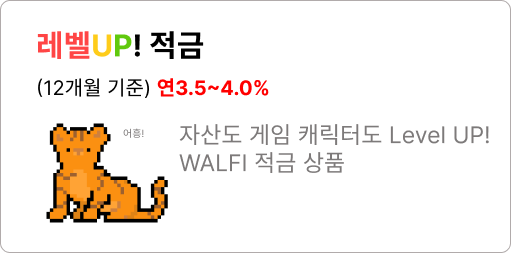
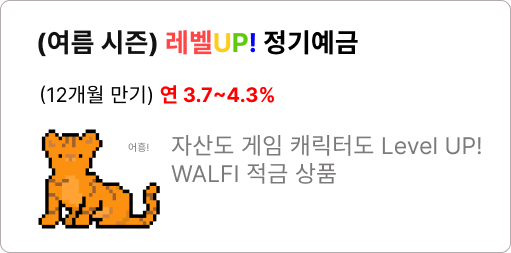
[기능] 게임 홈, 배틀 로직 구현 완료
- 적금 추가 중

Changed region(s): [[0.0587, 0.4704, 0.9687, 0.913], [0.0587, 0.1107, 0.7045, 0.249], [0.0587, 0.3043, 0.5577, 0.415]]

diff --git a/frontend/src/features/wallet/walletscreens/MakeDeposit.js b/frontend/src/features/wallet/walletscreens/MakeDeposit.js
@@ -1,0 +1,126 @@
+import React, {useState, useEffect} from "react";
+import { 
+  View,
+  TouchableOpacity,
+  Text,
+  StyleSheet,
+  TextInput
+ } from "react-native";
+import { RFPercentage } from "react-native-responsive-fontsize";
+import SelectDropdown from "react-native-select-dropdown";
+
+import { Background, ButtonStyle } from "../walletcomponents/CommonStyle";
+
+import { SCREEN_HEIGHT } from "./WalletHome";
+
+
+const Deposit = {
+  'Levelup':{
+    '기본금리': 3.7,
+    '추가금리': 0.1,
+    'message': '최고 레벨 캐릭터 수 +',
+    '가입기간': 12,
+}}
+
+const selNations = ['KRW','USD','JPY','EUR','CNY','AUD'];
+
+export default function MakeDetail({route,navigation}){
+  console.log(route.params.type) // LevelUp
+  const type = route.params.type;
+  const money = '100,000원'
+  return(
+    <View style={{...Background.background, padding:'10%', justifyContent:'none'}}>
+      <View style={styles.titleContent}>
+        <Text style={styles.nowRate}>{`현재 적용 금리 ${Deposit[type]['기본금리']}%`}</Text>
+        <Text style={styles.rateBg}>{`연 ${Deposit[type]['기본금리']}%`}</Text>
+        <Text style={styles.rateBg}>{`${Deposit[type]['message']} ${Deposit[type]['추가금리']}%`}</Text>
+      </View>
+      <View style={styles.middleContainer}>
+        <Text style={{ alignSelf: 'flex-end', marginBottom:'5%', fontWeight:'bold'}}>{`가입기간 ${Deposit[type]['가입기간']}개월`}</Text>
+        <View style={styles.inputContainer}>
+          <SelectDropdown
+            data={selNations}
+            onSelect={(selectedItem, index)=>{
+              console.log(selectedItem, index)
+            }}
+            buttonTextAfterSelection={(selectedItem, index)=>{
+              return selectedItem
+            }}
+            defaultValue={selNations[0]}
+            buttonStyle={styles.nationSel}
+            dropdownIconPosition={'left'}
+          />
+          <TextInput placeholder="금액 입력" style={styles.txtInput}/>
+        </View>
+        <View style={{width:'100%'}}>
+          <Text style={styles.rateCalc}>만기 시 받는 이자 </Text>
+          <Text style={{...styles.rateCalc, marginBottom:'15%'}}>{money}</Text>
+        </View>
+        <TouchableOpacity style={ButtonStyle.button}>
+          <Text style={{...ButtonStyle.btnFont, fontSize:RFPercentage(2.5)}}>가입</Text>
+        </TouchableOpacity>
+      </View> 
+    </View>
+  )
+}
+
+const styles = StyleSheet.create({
+  titleContent:{
+    width:'100%',
+    color:'#123C8D',
+    height:SCREEN_HEIGHT*0.2,
+    marginBottom:SCREEN_HEIGHT*0.15
+  },
+  rateBg:{
+    backgroundColor:'#B9C2FF',
+    marginVertical:'2%',
+    borderRadius:10,
+    paddingHorizontal:'3%',
+    paddingVertical:'3%',
+    color:'#123C8D',
+    alignSelf: 'flex-start'
+  },
+  middleContainer:{
+    width:'95%',
+    height:SCREEN_HEIGHT*0.2,
+    justifyContent:'center',
+    alignItems:'center',
+  },
+  inputContainer:{
+    borderRadius:15,
+    borderBlockColor: Background.background.backgroundColor,
+    backgroundColor:'white',
+    height:'70%',
+    width:'100%',
+    paddingHorizontal:'10%',
+    marginBottom:SCREEN_HEIGHT*0.08
+  },
+  txtInput:{
+    height:'40%',
+    fontSize:RFPercentage(2.5),
+    paddingHorizontal:'10%',
+    color:'grey'
+  },
+  nationSel:{
+    width:'100%',
+    height:'35%',
+    marginTop:'10%',
+    backgroundColor:'white',
+    borderRadius: 10,
+    borderBottomColor: Background.background.backgroundColor,
+    borderBottomWidth: StyleSheet.hairlineWidth*5,
+  },
+  nowRate:{
+    fontSize:RFPercentage(3),
+    fontWeight:'bold',
+    marginBottom:SCREEN_HEIGHT*0.02,
+  },
+  plusInfo:{
+    fontWeight:'bold',
+  },
+  rateCalc:{
+    fontWeight:'bold',
+    fontSize:RFPercentage(3.5),
+  },
+
+})

diff --git a/frontend/src/features/wallet/walletnavigation/WalletNavigaton.js b/frontend/src/features/wallet/walletnavigation/WalletNavigaton.js
@@ -8,12 +8,13 @@ import SendWho from '../walletscreens/SendWho';
 import SendHow from '../walletscreens/SendHow';
 import SendMemo from '../walletscreens/SendMemo';
 import WalletLoading from '../walletscreens/WalletLoading';
+import MakeDeposit from '../walletscreens/MakeDeposit' 
 
 const Stack = createNativeStackNavigator();
 
 const WalletNavigation = () => {
     return (
-    <Stack.Navigator initialRouteName='WalletLoading'>
+    <Stack.Navigator initialRouteName='MakeAccount'>
       <Stack.Screen name="WalletHome" component={WalletHome}
       options={{title:'My 월렛', headerBackVisible: false,}}/>
       <Stack.Screen name="MakeAccount" component={MakeAccount} options={{title:'예/적금'}}/>
@@ -22,6 +23,7 @@ const WalletNavigation = () => {
       <Stack.Screen name="SendHow" component={SendHow} options={{title:''}} />
       <Stack.Screen name="SendMemo" component={SendMemo} options={{ headerShown: false }} />
       <Stack.Screen name="WalletLoading" component={WalletLoading} options={{headerShown: false}}/>
+      <Stack.Screen name="MakeDeposit" component={MakeDeposit} options={{title:''}}/>
     </Stack.Navigator>
     )
 }

diff --git a/frontend/src/features/wallet/walletscreens/MakeAccount.js b/frontend/src/features/wallet/walletscreens/MakeAccount.js
@@ -29,10 +29,10 @@ export default function MakeAccount({ navigation }){
       <View style={{width:'90%',}}>
         <Text style={{fontSize:RFPercentage(3), fontWeight:'bold'}}>적금</Text>
       </View>
-      <TouchableOpacity onPress={()=>navigation.navigate('WalletHome')}>
+      <TouchableOpacity onPress={()=>navigation.navigate('MakeDeposit',{type:'Levelup'})}>
         <Image source={LevelupAccount} style={{width:SCREEN_WIDTH*0.9, height:SCREEN_HEIGHT*0.25, resizeMode:'contain'}}/>
       </TouchableOpacity>
-      <TouchableOpacity onPress={()=>navigation.navigate('WalletHome')}>
+      <TouchableOpacity onPress={()=>navigation.navigate('MakeDeposit')}>
         <Image source={JumpAccount} style={{width:SCREEN_WIDTH*0.9, height:SCREEN_HEIGHT*0.25, resizeMode:'contain'}}/>
       </TouchableOpacity>
       {/* <Image source={BaseballAccount} style={{width:'90%', resizeMode:'contain'}}/> */}

diff --git a/frontend/src/features/fight/fightcomponents/BattleFinish.jsx b/frontend/src/features/fight/fightcomponents/BattleFinish.jsx
@@ -15,12 +15,12 @@ const BattleFinish = () => {
   const battleResult = useSelector((state) => state.turn.res);
   const bankIdx = useSelector((state) => state.loading.bankIdx);
   const dispatch = useDispatch();
-
+  const userId = useSelector((state)=>state.auth.userId)
   const resultToServer = async () => {
     // 결과값 서버로 전송
     try {
-      await axios.post(`/battle?branchIdx=${bankIdx}&userId=ssafy`, {
-        userId: "ssafy",
+      await axios.post(`/battle?branchIdx=${bankIdx}&userId=${userId}`, {
+        userId: userId,
       });
     } catch (error) {
       console.error("배틀 결과 전송중 오류가 발생했습니다.", error);

diff --git a/frontend/src/features/home/homescreens/GameLoading.js b/frontend/src/features/home/homescreens/GameLoading.js
@@ -5,7 +5,7 @@ import {
     StyleSheet,
     Image
 } from 'react-native'
-import { useDispatch } from 'react-redux';
+import { useDispatch, useSelector } from 'react-redux';
 import { getCharacterList, getGameInfo, getMainCharacter } from '../homeSlice';
 
 import LoadingImg from '../../../assets/game/loading/LoadingImg.gif'
@@ -16,8 +16,7 @@ import { SCREEN_HEIGHT, SCREEN_WIDTH } from '../homecomponents/ScreenSize';
 
 export default function GameLoading({navigation}) {
 
-    const userId = 'ssafy'
-
+    const userId = useSelector(state=>state.auth.userId);
     const dispatch = useDispatch();
     useEffect(() => {
         getData();

diff --git a/frontend/App.js b/frontend/App.js
@@ -16,7 +16,7 @@ export default function App() {
   return (
     <Provider store={store}>
       <NavigationContainer>
-        <RootStack.Navigator initialRouteName='Auth' >
+        <RootStack.Navigator initialRouteName='Wallet' >
         {/* <RootStack.Navigator > */}
           <RootStack.Screen name='Home' component={HomeNavigation} options={{ headerShown: false }} />
           <RootStack.Screen name="GoogleMap" component={GoogleMapNavigator} options={{ headerShown: false }} />

diff --git a/frontend/src/features/wallet/walletSlice.js b/frontend/src/features/wallet/walletSlice.js
@@ -27,6 +27,17 @@ const ISO = {
   'AUD': 'AU$' 
 }
 
+
+export const makeAccount = createAsyncThunk('POST_MAKEACCOUJNT', async(data, {rejectWithValue})=>{
+  try{
+    const response = await axios.post('product',data);
+    console.log(response)
+  }catch(err){
+    console.log(err)
+    return rejectWithValue(err);
+  }
+})
+
 // 환율 정보 불러오기
 export const getExchangeRate = createAsyncThunk('GET_EXCHANGE_RATE', async(_,{ rejectWithValue })=>{
   try{

diff --git a/frontend/src/features/home/homecomponents/GameHeader.js b/frontend/src/features/home/homecomponents/GameHeader.js
@@ -88,7 +88,7 @@ function GameHeader(props) {
             {/* <View style={{ flex: 1, alignItems: 'center' }}>
                 <Image source={images.defaultCharacter.TIGER.MINT} style={styles.profile}></Image>
             </View> */}
-            <Text style={styles.name}>{gameUser&&gameUser.userId}</Text>
+            <Text style={styles.name}>{gameUser&&gameUser.username}</Text>
           </View>
           <View
             style={{

diff --git a/frontend/src/features/wallet/walletcomponents/depositinfo/DepositInfo.js b/frontend/src/features/wallet/walletcomponents/depositinfo/DepositInfo.js
@@ -1,0 +1,9 @@
+const DepositInfo = {
+  
+  LevelUp:{
+    '기본금리': 3.7,
+    '추가금리': 0.1,
+    '가입기간': 12,
+  }
+  
+}
